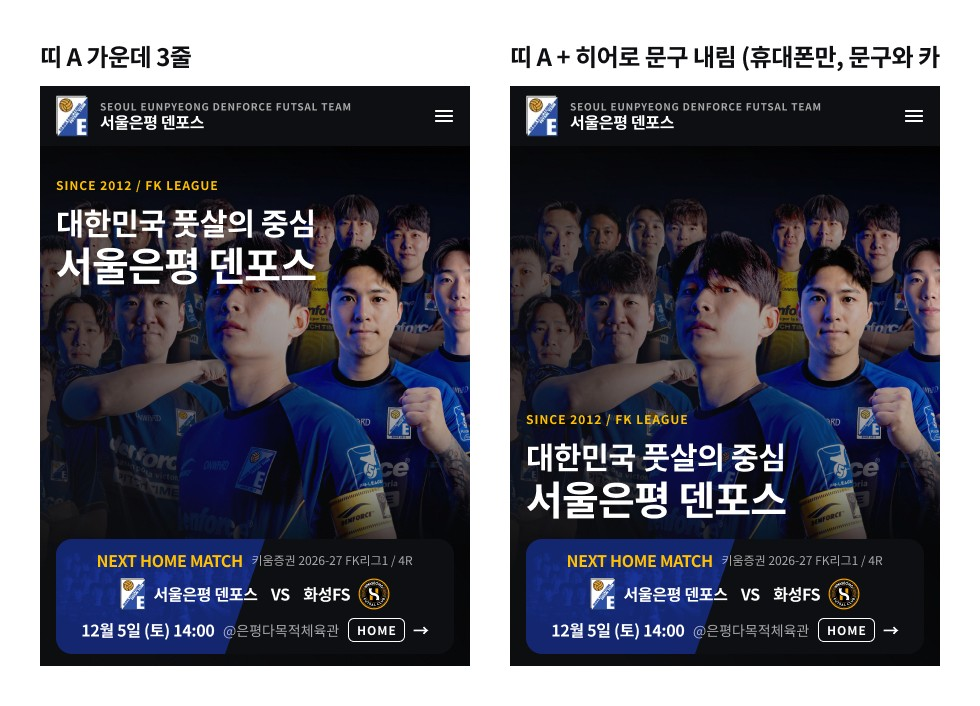
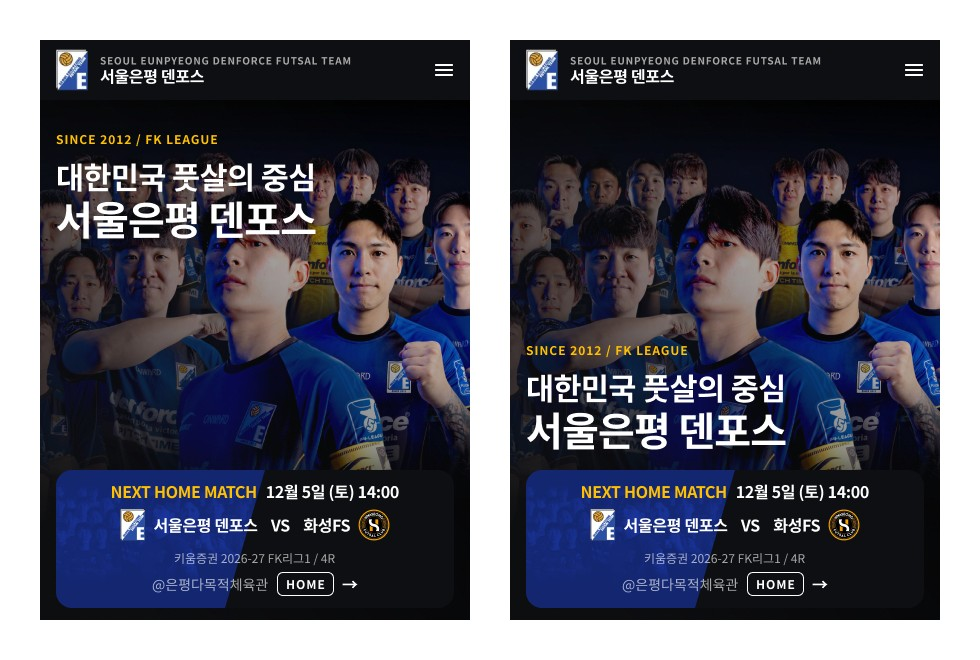
띠 A 줄 규칙 KFA고딕 폭 기준으로 고침(줄1 라벨+날짜, 줄3 대회+장소), 피그마 8장 반영 (I-062)
Claude-Session: https://claude.ai/code/session_015na33aTWafjDhk1iuVEHbY

diff --git a/sites/eunpyeong-denforce/docs/FIGMA_SYNC.md b/sites/eunpyeong-denforce/docs/FIGMA_SYNC.md
@@ -432,11 +432,11 @@
 | 카드 | 폭 화면 - 32(좌우 16), 높이 내용대로(390 에서 138), 검정, 라운드 16, 그림자 없음, 히어로 아래 끝에서 12 위. 버튼 없음, 카드 전체가 /match/schedule 링크 | color/black, radius/l, space/s |
 | 안쪽 여백, 줄 사이 | 위아래 12, 좌우 16, 줄 사이 8, 한 줄이 넘쳐 나뉠 때 줄 사이 4 | space/s, space/m, space/xs, space/2xs |
 | 파랑 반쪽 + 질감 | 지금 카드와 같은 사선(위 50% + 10, 아래 50% - 30), (다) 질감은 히어로 사진 | color/blue |
-| 줄 1 | NEXT HOME MATCH(16 Bold yellow) + 대회/라운드 태그, 사이 8, 가운데, 넘치면 태그가 다음 줄 | kfa/m/h4 |
+| 줄 1 (2026-11-14 고침, I-062) | NEXT HOME MATCH(16 Bold yellow) + 날짜(16 Bold on-dark), 사이 8, 가운데, 넘치면 날짜가 다음 줄 | kfa/m/h4 |
 | 줄 2 대진 | [우리 엠블럼 32 + 이름] VS [상대 이름 + 상대 엠블럼 32], 엠블럼과 이름 사이 8, 덩어리 사이 12, 이름과 VS 16 Bold on-dark, 세로 가운데. 긴 상대 이름은 낱말 경계에서만 2줄 | MatchEmblem Size=32, kfa/m/h4 |
-| 줄 3 | 날짜(16 Bold on-dark) + [@장소(body-s on-dark-sub) + HOME 배지 + →] 한 덩어리, 사이 8, 가운데. 넘치면 덩어리째 다음 줄 | kfa/m/h4, kfa/body-s |
+| 줄 3 (2026-11-14 고침, I-062) | 대회/라운드 태그(caption 12) + [@장소(body-s on-dark-sub) + HOME 배지 + →] 한 덩어리, 사이 8, 가운데. 넘치면 덩어리째 다음 줄(KFA 폭 382 라 360 ~ 430 모두 두 줄: 태그 / 장소 덩어리) | kfa/caption, kfa/body-s |
 | 화살표 | → 16 Bold on-dark, aria-hidden(사이트 '전체보기 →' 와 같은 방식) | kfa/m/h4 |
-| 높이 실측 | 360 161, 390 138, 430 115, 390 긴 이름 144 | - |
+| 높이 (KFA고딕 폭 기준, 2026-11-14) | 줄 1 폭: 라벨 157.5 + 8 + 날짜 137.4(26일 147.0) = 302.9(312.5). 390 안쪽 326, 430 366 에 한 줄, 360 안쪽 296 에서만 두 줄. 줄 3: 태그 171.4 + 8 + 장소 덩어리 약 203 = 382 라 늘 두 줄. 예상 높이 360 약 162, 390 약 138, 430 약 138, 390 긴 이름 약 145(상대 이름 2줄). 피그마는 임시 글꼴 Noto Sans KR 이라 360 도 줄 1 한 줄로 그려짐(138) | - |
 
 **우리 엠블럼 규칙(모든 곳 공통, 17ddf61 의 흰 바탕을 대신함)**: public/brand/emblem-mark.png(SINCE 2012 줄 없음)를 테두리와 바탕 없이 그대로 쓴다. 깃발의 검은 외곽선이 어두운 면, 파랑 면, 흰 면 모두에서 경계가 된다. MatchEmblem 190:734 우리 팀 9크기(112, 96, 88, 72, 64, 56, 40, 32, 24)를 이 파일로 바꾸고 바깥선을 지웠다. 그래서 경기 3칸 띠(200:21536 / 200:21621)와 경기표, 순위표 24 에도 그대로 이어진다. 파랑 반쪽은 이 카드에만 쓰고, 띠와 표 바탕은 지금 그대로다.
 
@@ -594,3 +594,4 @@
 - 2026-11-14 디자인: 휴대폰 카드 3안 섹션 271:26414 와 그 안 프레임에 '[보관: 선택 안 됨]'(소유자: 정렬이 아니라 카드 면적이 커서 단체 사진을 가림). 방향 A '작은 띠 카드' 시안 3안, 새 섹션 274:26714. 히어로 사진은 운영 단체 사진 hero-2627-squad-v3(Supabase 공개 media, 피그마 이미지 43dd7fa6…)로 바꿈(채움, 가운데). 버튼 없음, 카드 전체가 /match/schedule 링크, 화살표 → 는 눌림 표시(aria-hidden), 사이트의 '전체보기 →' 와 같은 글자 화살표. 공통: 라벨 kfa/m/h4 yellow, 이름/VS/날짜 kfa/m/h4, 대회 태그와 @장소 + HOME 은 기존 부품, 안쪽 여백 위아래 space/s 좌우 space/m, 줄 사이 space/xs, 줄바꿈 줄 사이 space/2xs, 긴 상대 이름은 낱말 경계(고양불스 / 풋살클럽)에서만 줄바꿈. 프레임 순서 360 / 390 / 430 / 390 긴 이름. 띠 A 가운데 3줄 274:26717 / 274:26795 / 274:26873 / 274:26951: 폭 화면 - 32, 가운데, [라벨 + 대회] / [엠블럼 32 + 이름, VS] / [날짜 + (@장소 + HOME + → 한 덩어리)], 파랑 반쪽 +10/-30 + (다) 질감(단체 사진), 아래 space/s. 높이 161 / 138 / 115 / 144, 사진 보이는 높이(히어로 520 중) 347 / 370 / 393 / 364. 띠 B 왼쪽 정렬 + 화살표 칸 274:27031 / 274:27106 / 274:27181 / 274:27256: 폭 화면 - 32, 내용 왼쪽 + 오른쪽 화살표 칸 24(kfa/m/h3 →, 세로 가운데), 평면 color/blue 바탕, 360 은 엠블럼 24. 높이 153 / 161 / 115 / 167(390 은 라벨과 대회, 날짜와 장소가 각각 두 줄로 나뉘어 목표 150 을 넘음). 띠 C 바닥 시트 274:27333 / 274:27411 / 274:27489 / 274:27567: 가로 전체, 히어로 아래 끝에 붙음, 위 두 모서리만 radius/l, 아래 여백 space/m, 가운데 [라벨 →] / [엠블럼 40 + 이름, VS] / [날짜 + 대회 + @장소 + HOME], 파랑 반쪽 + (다) 질감. 높이 모든 폭 150, 사진 보이는 높이 370. 누를 수 있는 높이는 모두 카드 전체(115 이상). 캡처 docs/figma-captures/phone-strip/(compare-390, compare-430, compare-390-long 에 안 이름, 안별 3장). 감사: 맨 색 0, 스타일 없는 글자 0, 가운뎃점 0.
 - 2026-11-14 디자인: 소유자 선택 띠 A 가운데 3줄 [확정](D-088). 피그마 띠 A 프레임 4장과 제목에 [확정], 띠 B, C 에 [보관: 선택 안 됨]. 부품 지도 'NextMatchHero v2 ② 좌우 분할' 아래에 '휴대폰 작은 띠 A' 수치 표 추가(기능 구현용).
 - 2026-11-14 디자인: 소유자 "메인 슬로건도 밑으로" 시안. 띠 A 확정 4장을 복제해 섹션 274:26714 넷째 줄(제목 277:26954)에 '띠 A + 문구 내림 [시안]' 360 277:26956 / 390 277:27007 / 430 277:27058 / 390 긴 이름 277:27109. 히어로는 시안용으로 분리하고 문구(SINCE 2012 / FK LEAGUE + 두 줄) 위치만 바꿈. 크기, 줄 수, 왼쪽 16 그대로. 문구 아래 끝과 카드 위 끝 사이 space/m 16(space/s 12 는 카드 라벨과 문구가 붙어 보여 16). 문구 위 끝 y(프레임 기준, 머리 60 포함) 280 / 303 / 326 / 297, 히어로 위에서 문구까지 글자 없는 사진 높이 220 / 243 / 266 / 237(지금 32). 단체 사진 얼굴은 모두 문구 위에 보이고 문구는 앞줄 가슴 위에 놓임. 읽힘: 두 줄 문구 뒤 사진 밝기 p95 기준 흰 글자 대비 3.6~3.7, 밝은 점(p99) 2.4 로 지금 위쪽 위치(3.6 / 2.4)와 같음. 큰 글자 기준 3:1 을 대부분 넘어 지금 덮개 그대로로 충분. 히어로 덮개(overlay-strong 0.9 → mid 0.55 → faint 0.15 사선)는 D-005 가 '블랙 = 히어로 오버레이'로 정한 사진 덮개라 UI 그라데이션 금지의 예외이고, 새로 만들지 않음. 캡처 phone-strip/lowered-compare-390.jpg, lowered-compare-430.jpg, stripA-lowered.jpg.
+- 2026-11-14 디자인: I-062(기능 1eca3db 실측 390 162) 대응. 원인은 피그마 임시 글꼴(Noto)과 사이트 KFA고딕의 폭 차. KFA고딕 파일로 직접 잰 폭(라벨 157.5, 대회 태그 171.4, 날짜 137.4 / 26일 147.0, 장소 114.7, HOME 배지 약 58, → 14.4)으로 규칙을 다시 정함. 대회 태그는 이미 가장 작은 토큰(kfa/caption 12)이라 줄일 수 없어서 줄을 바꿈: 줄 1 = 라벨 + 날짜, 줄 3 = 대회 + (@장소 + HOME + →). 모든 폭에서 같은 구조. 390 줄 1 302.9(26일 312.5) / 326 으로 한 줄. 예상 높이 360 162, 390 138, 430 138, 긴 이름 145. 띠 A 확정 4장(274:26717 / 26795 / 26873 / 26951)과 문구 내림 4장(277:26956 / 27007 / 27058 / 27109) 모두 같은 규칙으로 고치고 카드 위치, 파랑 반쪽, 질감, 내린 문구 위치(카드 위 16)를 다시 맞춤. 문구 위 끝 y 303(긴 이름 297). 캡처 phone-strip/stripA-rows-rule.jpg, stripA-lowered.jpg, lowered-compare-390/430.jpg 다시 찍음.
